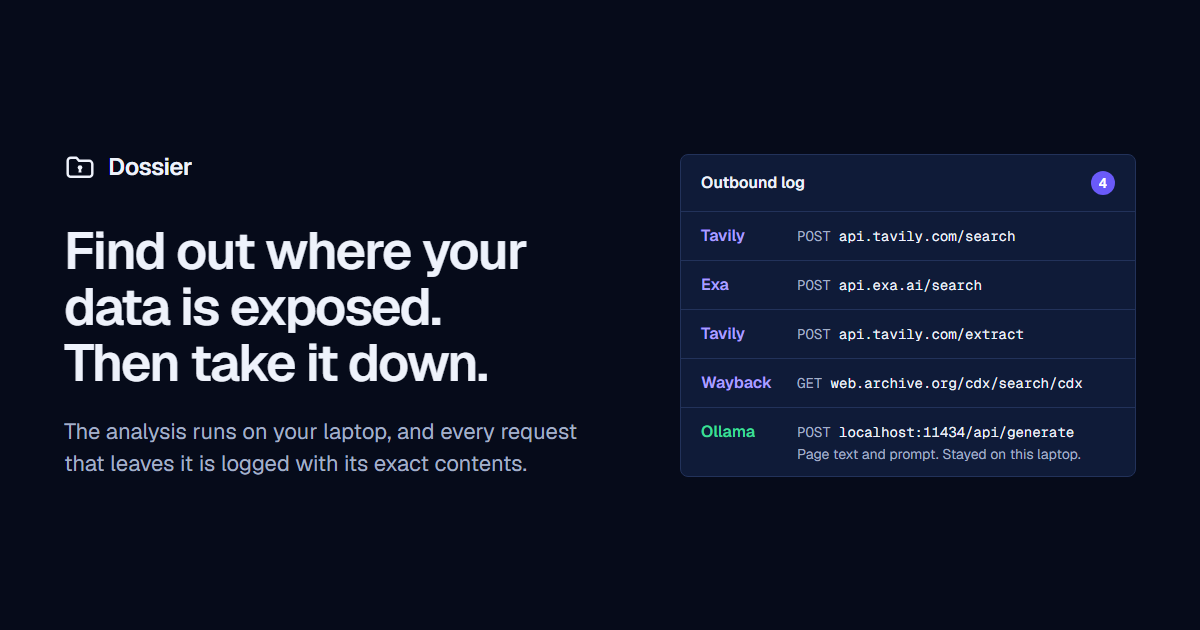
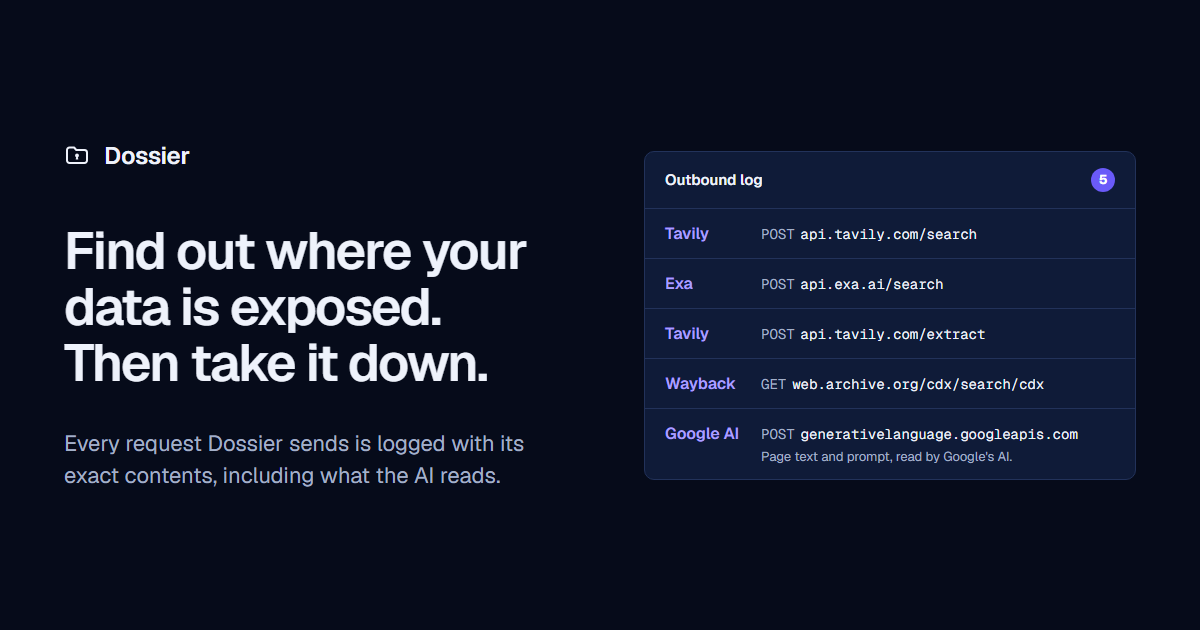
Site: say "the AI" instead of naming Gemini in any copy
Scan progress, exposure cards, alias and incident explanations, the threat
monitor, status lines, the landing and extension pages, page metadata and
the share image no longer name Gemini or show its model ID. Where copy says
who receives the data it says "Google's AI", and the outbound log labels
those calls "Google AI"; the log's raw request URL is unchanged. Backend
errors and outbound-log purposes (stages 1, 3, 4, 7, the monitor, the site
policy check) say "the AI". Also drops two stale "local model" / "runs on
your laptop" claims. Tests updated for the new wording.

No shared files touched (models.py, db.py, outbound.py, main.py, api.ts).

Changed region(s): [[0.5242, 0.2413, 0.9558, 0.7841], [0.0308, 0.6635, 0.4933, 0.7841], [0.0308, 0.2413, 0.1542, 0.3016]]

diff --git a/frontend/app/components/IncidentCard.tsx b/frontend/app/components/IncidentCard.tsx
@@ -288,7 +288,7 @@ export default function IncidentCard(props: Props) {
                 </li>
               </ul>
               <p className="muted small">
-                Written by {analysis.model}, {localTime(analysis.analyzed_at)}, from the evidence above.
+                Written by AI, {localTime(analysis.analyzed_at)}, from the evidence above.
                 {analysis.removed_sentences > 0 &&
                   ` ${analysis.removed_sentences} sentence${analysis.removed_sentences === 1 ? " was" : "s were"} removed because the evidence didn't support ${analysis.removed_sentences === 1 ? "it" : "them"}.`}
               </p>
@@ -297,7 +297,7 @@ export default function IncidentCard(props: Props) {
               )}
             </div>
           ) : (
-            <p className="muted small">A short explanation written by Gemini from the evidence above.</p>
+            <p className="muted small">A short explanation written by AI from the evidence above.</p>
           )}
           <div className="row mt">
             <button type="button" className="secondary" onClick={analyze} disabled={analyzing || !llm.ready} aria-busy={analyzing || undefined}>
@@ -306,10 +306,10 @@ export default function IncidentCard(props: Props) {
             {!analyzing && (
               <span className="muted small">
                 {!llm.ready
-                  ? "Add GEMINI_API_KEY to .env to use Gemini."
+                  ? "Needs the AI API key in .env (see .env.example)."
                   : readsNotice
-                    ? `Sends the evidence above to Gemini (${llm.model}). It may first read the official notice through Tavily (one public URL). Both show in the outbound log.`
-                    : `Sends the evidence above to Gemini (${llm.model}). It shows in the outbound log.`}
+                    ? `Sends the evidence above to Google's AI. It may first read the official notice through Tavily (one public URL). Both show in the outbound log.`
+                    : `Sends the evidence above to Google's AI. It shows in the outbound log.`}
               </span>
             )}
           </div>
@@ -319,7 +319,7 @@ export default function IncidentCard(props: Props) {
                 <span className="elapsed" aria-hidden="true">
                   {elapsed} s
                 </span>
-                <span>Asking Gemini. This usually takes a few seconds.</span>
+                <span>Asking the AI. This usually takes a few seconds.</span>
               </p>
               <div className="stripe" aria-hidden="true" />
             </div>

diff --git a/frontend/app/page.tsx b/frontend/app/page.tsx
@@ -15,7 +15,7 @@ const POWERED_BY = [
   { name: "Exa", role: "Finds listings that match you" },
   { name: "Tavily", role: "Searches and reads broker pages" },
   { name: "Wayback Machine", role: "Dates when a listing went public" },
-  { name: "Gemini", role: "Reads each page and privacy policy" },
+  { name: "Google AI", role: "Reads each page and privacy policy" },
 ];
 
 const STEPS = [
@@ -24,7 +24,7 @@ const STEPS = [
     items: [
       {
         title: "Find your listings",
-        body: "Exa and Tavily search people-search sites for your name and city. A local model lists what each page shows about you.",
+        body: "Exa and Tavily search people-search sites for your name and city. An AI model lists what each page shows about you.",
       },
       {
         title: "Date each one",
@@ -41,7 +41,7 @@ const STEPS = [
       },
       {
         title: "Read the fine print",
-        body: "A local model reads each company's privacy policy and flags clauses that allow selling or sharing your data.",
+        body: "An AI model reads each company's privacy policy and flags clauses that allow selling or sharing your data.",
       },
       {
         title: "Rank likely sources",
@@ -211,7 +211,7 @@ export default async function Landing() {
                   <Check /> Phone numbers, emails, birthdates and SSNs are blocked before a search is sent.
                 </li>
                 <li>
-                  <Check /> Pages and privacy policies are read by Google&apos;s Gemini, and the log shows exactly what it was sent.
+                  <Check /> Pages and privacy policies are read by Google&apos;s AI, and the log shows exactly what it was sent.
                 </li>
                 <li>
                   <Check /> Your saved scans belong to your account. Nobody else can see them.

diff --git a/frontend/app/components/AliasPanel.tsx b/frontend/app/components/AliasPanel.tsx
@@ -359,7 +359,7 @@ function AliasRow({ alias: a, isNew, onChange }: RowProps) {
 
           <div className="row alias-actions">
             <button type="button" onClick={investigate} disabled={investigating} aria-busy={investigating || undefined}>
-              <SwapLabel on={investigating} idle="Investigate" active={`Asking Gemini… ${elapsed} s`} />
+              <SwapLabel on={investigating} idle="Investigate" active={`Asking the AI… ${elapsed} s`} />
             </button>
             <button type="button" className="secondary" onClick={setStatus} disabled={saving !== null} aria-busy={saving === "status" || undefined}>
               <SwapLabel on={saving === "status"} idle={off ? "Turn on" : "Turn off"} active="Saving…" />
@@ -367,7 +367,7 @@ function AliasRow({ alias: a, isNew, onChange }: RowProps) {
           </div>
           {investigating && (
             <p className="muted small" role="status">
-              Gemini gets the sender domains and subjects, never your alias address. It usually answers in seconds.
+              The AI gets the sender domains and subjects, never your alias address. It usually answers in seconds.
             </p>
           )}
 
@@ -425,7 +425,7 @@ function InvestigationResult({ result }: { result: AliasInvestigation }) {
         <>
           <h4>{ALIAS_CATEGORY_LABEL[result.category]}</h4>
           <p>{result.explanation}</p>
-          <p className="muted small">Explained by Gemini. Checked against the facts above.</p>
+          <p className="muted small">Explained by AI. Checked against the facts above.</p>
         </>
       )}
       {result.errors.map((e) => (

diff --git a/frontend/app/extension/page.tsx b/frontend/app/extension/page.tsx
@@ -47,14 +47,14 @@ const GUARANTEES = [
   "It never reads what you type. Form fields are judged by their labels.",
   "Trackers are matched by hostname. The rest of a tracker's address, where account IDs hide, is dropped.",
   "Checking each site you visit contacts no site. Opening the popup reads that site's own policy and ads.txt, and logs each request.",
-  "Nothing goes to a search engine or a Dossier server. Opening the popup sends the policy's selling and sharing sentences to Google's Gemini, and that's logged too.",
+  "Nothing goes to a search engine or a Dossier server. Opening the popup sends the policy's selling and sharing sentences to Google's AI, and that's logged too.",
   "One button forgets the sites you've visited, in the extension and on the backend, and tells you what it can't recall.",
 ];
 
 const RECEIPT = [
   { service: "Website", local: false, method: "GET", url: "shopco.example/legal/privacy", note: "No cookies sent. Read straight from the site.", status: "200" },
   { service: "Website", local: false, method: "GET", url: "shopco.example/ads.txt", note: "Who may sell its ads.", status: "200" },
-  { service: "Gemini", local: false, method: "POST", url: "generativelanguage.googleapis.com/…:generateContent", note: "Policy sentences, read by Google's Gemini.", status: "200" },
+  { service: "Google AI", local: false, method: "POST", url: "generativelanguage.googleapis.com/…:generateContent", note: "Policy sentences, read by Google's AI.", status: "200" },
 ];
 
 export default function ExtensionPage() {

diff --git a/frontend/app/components/MonitoredCompanies.tsx b/frontend/app/components/MonitoredCompanies.tsx
@@ -98,7 +98,7 @@ export default function MonitoredCompanies({ monitored, config, refreshing, onCh
                   className="secondary"
                   onClick={() => onSearchNews(c.id)}
                   disabled={refreshing || !newsReady}
-                  title={newsReady ? undefined : "Needs a Tavily or Exa key and a Gemini key"}
+                  title={newsReady ? undefined : "Needs a Tavily or Exa key and an AI key"}
                 >
                   Search news &amp; notices
                 </button>
@@ -112,8 +112,8 @@ export default function MonitoredCompanies({ monitored, config, refreshing, onCh
       )}
       {monitored.length > 0 && (
         <p className="muted small mt">
-          News and official-notice searches use Tavily and Exa credits and Gemini, about a minute per company.
-          {!newsReady && " They need a Tavily or Exa key and GEMINI_API_KEY in .env."}
+          News and official-notice searches use Tavily and Exa credits and AI calls, about a minute per company.
+          {!newsReady && " They need a Tavily or Exa key and the AI API key in .env."}
         </p>
       )}
     </section>

diff --git a/frontend/app/app/monitor/page.tsx b/frontend/app/app/monitor/page.tsx
@@ -51,7 +51,7 @@ function Setup({ config }: { config: MonitorConfig }) {
     { on: config.news_search, text: config.news_search ? "News search keys set" : "News search needs a Tavily or Exa key" },
     {
       on: config.local_llm,
-      text: config.local_llm ? `Gemini ready (${config.local_llm_model})` : "Gemini not set up (add GEMINI_API_KEY to .env)",
+      text: config.local_llm ? "AI ready" : "AI not set up (add its API key to .env)",
     },
   ];
   return (
@@ -258,7 +258,7 @@ export default function MonitorPage() {
             <h1>Threat monitor</h1>
             <p className="lede">
               We watch the companies you use for known data breaches and tell you what to do. Matching runs on this
-              laptop, and Gemini writes the explanations.
+              laptop, and AI writes the explanations.
             </p>
           </header>
 

diff --git a/frontend/app/components/FilmPlayer.tsx b/frontend/app/components/FilmPlayer.tsx
@@ -147,8 +147,8 @@ export default function FilmPlayer() {
         site after site. Where did they get it? Dossier: Find it, by scanning people-search sites for your name and
         city. Trace it, by ranking the likely source with the evidence behind it: a breach notice, a privacy policy
         and an email alias all point to one sample company. Take it down, by drafting opt-out requests and re-scanning
-        until the listings are removed. All without handing your data to yet another company: the AI runs on your
-        laptop, every request is logged, and searches use your name and city only.
+        until the listings are removed. Every request is logged, including what the AI reads, and searches use your name and city
+        only.
       </p>
     </div>
   );

diff --git a/frontend/app/layout.tsx b/frontend/app/layout.tsx
@@ -8,7 +8,7 @@ const sans = localFont({ src: "./fonts/Geist-Variable.woff2", variable: "--font-
 const mono = localFont({ src: "./fonts/GeistMono-Variable.woff2", variable: "--font-mono", weight: "100 900" });
 
 const DESCRIPTION =
-  "Dossier finds your listings on people-search sites, shows the likely source with its evidence, and drafts the opt-out. Every request it sends is logged, including what Gemini reads.";
+  "Dossier finds your listings on people-search sites, shows the likely source with its evidence, and drafts the opt-out. Every request it sends is logged, including what the AI reads.";
 
 export const metadata: Metadata = {
   // Absolute URLs (the Open Graph image) use the public site's address when there is one. On

diff --git a/frontend/app/components/ScanForm.tsx b/frontend/app/components/ScanForm.tsx
@@ -92,7 +92,7 @@ export default function ScanForm({ onResult, onBusyChange }: Props) {
         <div className="progress" role="status">
           <p className="progress-text">
             <span className="elapsed" aria-hidden="true">{formatElapsed(elapsed)}</span>
-            <span>Searching broker sites, then reading each page with Gemini. This can take a minute.</span>
+            <span>Searching broker sites, then having the AI read each page. This can take a minute.</span>
           </p>
           <div className="stripe" aria-hidden="true" />
         </div>

diff --git a/frontend/app/components/MonitorActivity.tsx b/frontend/app/components/MonitorActivity.tsx
@@ -78,7 +78,7 @@ export default function MonitorActivity({ schedule, events, onChanged }: Props) 
               disabled={saving}
               onChange={(e) => save({ include_news: e.target.checked })}
             />
-            <span>Include news and official notices (uses Tavily and Exa credits and Gemini)</span>
+            <span>Include news and official notices (uses Tavily and Exa credits and AI calls)</span>
           </label>
           <p className="muted small mt">
             {schedule.enabled

diff --git a/frontend/app/components/StatusLine.tsx b/frontend/app/components/StatusLine.tsx
@@ -22,7 +22,7 @@ export default function StatusLine() {
     );
 
   const llmOk = status.ollama_running; // GEMINI_API_KEY is set (the field is named from before Gemini)
-  const llm = llmOk ? `Gemini ready (${status.ollama_model})` : "Gemini not set up (add GEMINI_API_KEY to .env)";
+  const llm = llmOk ? "AI ready" : "AI not set up (add its API key to .env)";
   const missing = Object.entries(status.keys)
     .filter(([, set]) => !set)
     .map(([name]) => name);

diff --git a/frontend/app/components/ExposureCard.tsx b/frontend/app/components/ExposureCard.tsx
@@ -187,7 +187,7 @@ export default function ExposureCard({ exposure, onDraft, removal }: Props) {
           )}
           <li>Found with {exposure.found_via ? FOUND_VIA_LABEL[exposure.found_via] : "a search"}</li>
           <li>Read from {exposure.text_source === "extract" ? "the page itself" : "the search snippet"}</li>
-          <li>Checked by Gemini</li>
+          <li>Checked by AI</li>
         </ul>
       </details>
 
